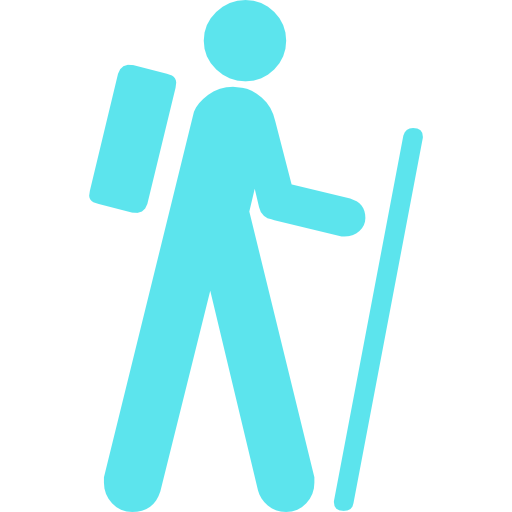
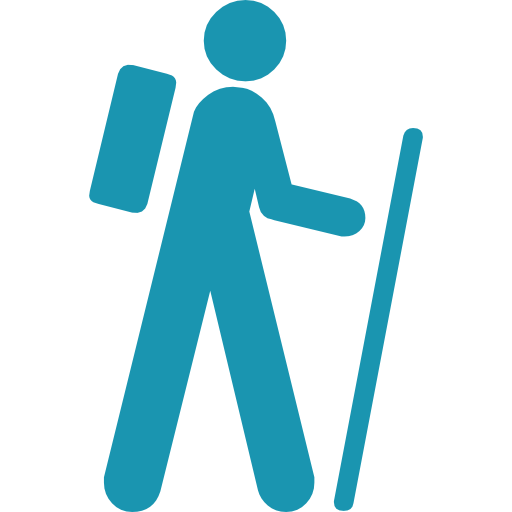
fixed light blue people

Changed region(s): [[0.1562, 0.0, 0.7188, 1.0], [0.6562, 0.25, 0.8438, 1.0]]

diff --git a/index.html b/index.html
@@ -1054,8 +1054,8 @@
 		<div class="progline" style="margin-bottom: 2vh; margin-top:5vh;">
 			<a href="#popupBasic2" data-rel="popup" data-position-to="window">
 				<div class="progline">
-					<img src="img/gym C.png" onclick="catherine2();" style="left:96%">
-					<img src="img/gym A.png" onclick="alena2();" style="left:0%">
+					<img src="img/darkblueweights.png" onclick="catherine2();" style="left:96%">
+					<img src="img/lightblueweights.png" onclick="alena2();" style="left:0%">
 				</div>
 			</a>
 			
@@ -1383,8 +1383,8 @@
 		<div class="progline" style="margin-top:5vh;">
 			<a href="#popupBasic3" data-rel="popup" data-position-to="window">
 				<div class="progline">
-					<img src="img/hikingman C.png" onclick="catherine3();" style="left:96%">
-					<img src="img/hikingman K.png" onclick="alena3();" style="left:0%">
+					<img src="img/darkbluehiking.png" onclick="catherine3();" style="left:96%">
+					<img src="img/lightbluehiking.png" onclick="alena3();" style="left:0%">
 				</div>
 			</a>
 			<img src="img/hikingman me.png" class="me" style="left: 0%; width:7vw;">
